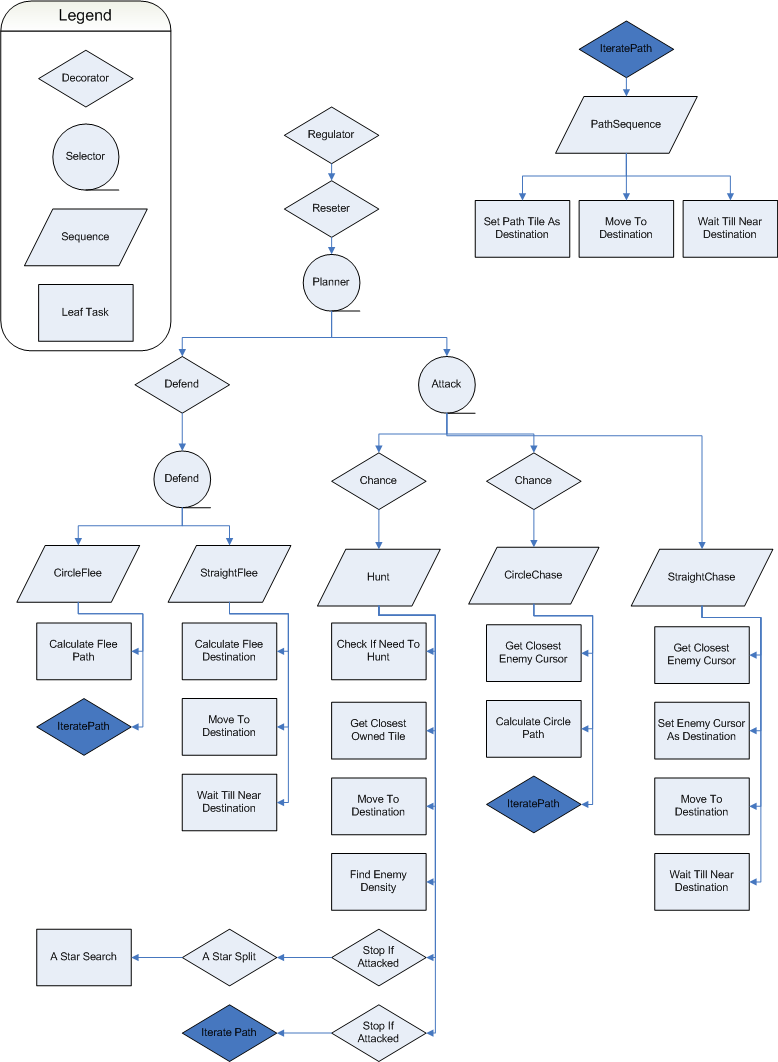
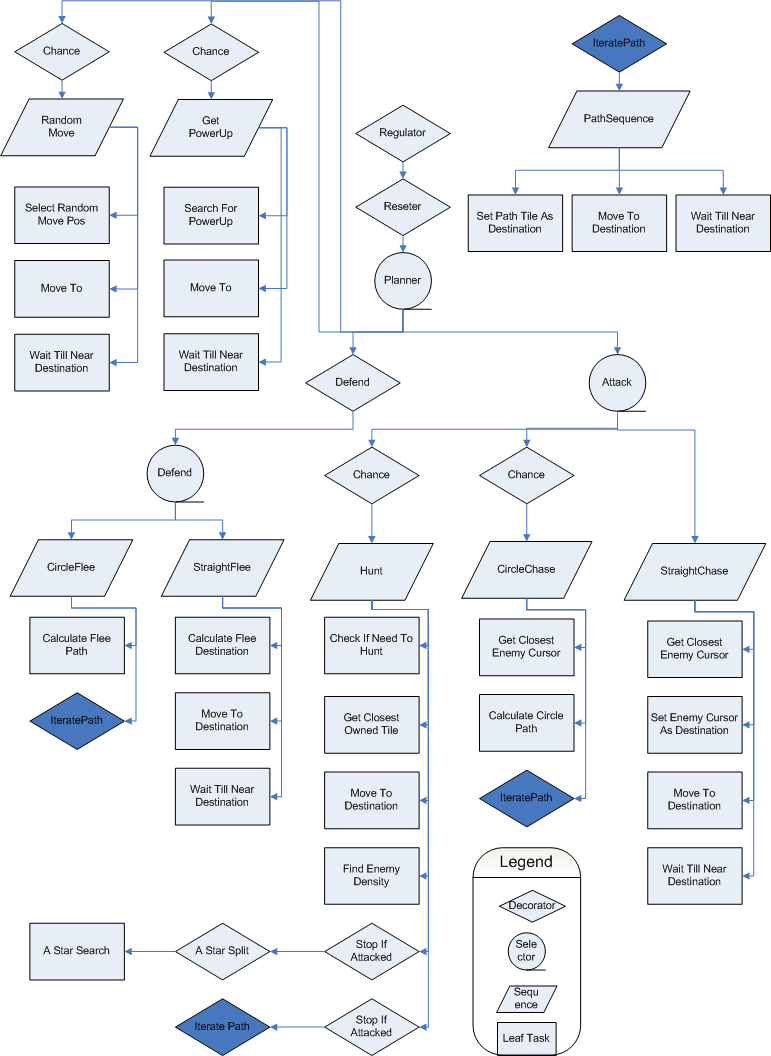
Ying: Added move random behavior

diff --git a/branches/optimal_gfx_rendering/Code/src/com/game/InputDevice/AIInputDevice.java b/branches/optimal_gfx_rendering/Code/src/com/game/InputDevice/AIInputDevice.java
@@ -17,6 +17,7 @@ import com.game.AI.FindEnemyDensityTask;
 import com.game.AI.GetClosestEnemyCursorTask;
 import com.game.AI.GetClosestOwnedTileTask;
 import com.game.AI.IteratePathDecorator;
+import com.game.AI.SelectRandomMovePos;
 import com.game.AI.ParentTaskController;
 import com.game.AI.MoveToDestinationTask;
 import com.game.AI.RegulatorDecorator;
@@ -72,7 +73,7 @@ public class AIInputDevice extends InputDevice
 		// Planner
 		this.planner = new Selector(blackboard, "Planner");
 		this.planner = new ResetDecorator(blackboard, this.planner, "Planner");
-		this.planner = new RegulatorDecorator(blackboard, this.planner, "Planner", 1f);
+		this.planner = new RegulatorDecorator(blackboard, this.planner, "Planner", 0.1f);
 		
 		// PowerUp search
 		Task powerUpSearch = new Sequence(blackboard, "Get PowerUp sequence");
@@ -80,6 +81,13 @@ public class AIInputDevice extends InputDevice
 		((ParentTaskController)powerUpSearch.GetControl()).Add( new SearchForPowerUpTask(blackboard, "SearchForPowerUpTask") );
 		((ParentTaskController)powerUpSearch.GetControl()).Add( new MoveToDestinationTask(blackboard, "MoveToDestinationTask") );
 		((ParentTaskController)powerUpSearch.GetControl()).Add( new WaitTillNearDestinationTask(blackboard, "WaitTillNearDestinationTask"));
+		
+		// Random move
+		Task randomMove = new Sequence(blackboard, "Random move");
+		randomMove = new ChanceDecorator(blackboard, randomMove, "Random move", 30);
+		((ParentTaskController)randomMove.GetControl()).Add( new SelectRandomMovePos(blackboard, "SelectRandomMovePos") );
+		((ParentTaskController)randomMove.GetControl()).Add( new MoveToDestinationTask(blackboard, "MoveToDestinationTask") );
+		((ParentTaskController)randomMove.GetControl()).Add( new WaitTillNearDestinationTask(blackboard, "WaitTillNearDestinationTask"));
 		
 		// Attack
 		Task attack = new Selector(blackboard, "Attack");
@@ -91,7 +99,7 @@ public class AIInputDevice extends InputDevice
 		((ParentTaskController)hunt.GetControl()).Add(new GetClosestOwnedTileTask(blackboard, "GetClosestOwnedTile"));
 		((ParentTaskController)hunt.GetControl()).Add(new MoveToDestinationTask(blackboard, "MoveToDestination"));
 		((ParentTaskController)hunt.GetControl()).Add(new FindEnemyDensityTask(blackboard, "FindEnemyDensity"));
-		Task aStarSearch = new AStarSearchTask(blackboard, "AStarSearch", 100);
+		Task aStarSearch = new AStarSearchTask(blackboard, "AStarSearch", 60);
 		aStarSearch = new AStarSplitDecorator(blackboard, aStarSearch, "AStarSearch {SplitDec}");
 		aStarSearch = new StopIfAttackedDecorator(blackboard, aStarSearch, "AStarSearch {StopIfAttack}");
 		((ParentTaskController)hunt.GetControl()).Add( aStarSearch );
@@ -127,7 +135,7 @@ public class AIInputDevice extends InputDevice
 		
 		// Add to attack
 		((ParentTaskController)attack.GetControl()).Add(hunt);
-		//((ParentTaskController)attack.GetControl()).Add(circleChase);
+		((ParentTaskController)attack.GetControl()).Add(circleChase);
 		((ParentTaskController)attack.GetControl()).Add(straightChase);
 		
 		// Defend
@@ -155,7 +163,8 @@ public class AIInputDevice extends InputDevice
 		((ParentTaskController)defend.GetControl()).Add(straightFlee);
 		
 		// Add to planner
-		//((ParentTaskController)this.planner.GetControl()).Add(powerUpSearch);
+		((ParentTaskController)this.planner.GetControl()).Add(randomMove);
+		((ParentTaskController)this.planner.GetControl()).Add(powerUpSearch);
 		((ParentTaskController)this.planner.GetControl()).Add(defend);
 		((ParentTaskController)this.planner.GetControl()).Add(attack);
 		

diff --git a/branches/optimal_gfx_rendering/Code/src/com/game/AI/SelectRandomMovePos.java b/branches/optimal_gfx_rendering/Code/src/com/game/AI/SelectRandomMovePos.java
@@ -1,0 +1,47 @@
+package com.game.AI;
+
+import java.util.Random;
+
+import com.game.Preferences;
+import com.game.Vec2;
+
+public class SelectRandomMovePos extends LeafTask {
+
+	public SelectRandomMovePos(Blackboard blackboard) {
+		super(blackboard);
+	}
+
+	public SelectRandomMovePos(Blackboard blackboard, String name) {
+		super(blackboard, name);
+	}
+
+	@Override
+	public boolean CheckConditions() {
+		return true;
+	}
+
+	@Override
+	public void DoAction() 
+	{
+		Random rand = new Random();
+		Vec2 dest = new Vec2(rand.nextInt(Preferences.Get().mapWidth), rand.nextInt(Preferences.Get().mapHeight));
+		Vec2 cursorPos = bb.player.GetCursor().GetPosition();
+		
+		bb.moveDirection = new Vec2(dest.X()-cursorPos.X(), dest.Y()-cursorPos.Y());
+		bb.destination.Set(dest.X(), dest.Y());
+		
+		control.FinishWithSuccess();
+	}
+
+	@Override
+	public void End() {
+
+	}
+
+	@Override
+	public void Start() 
+	{
+
+	}
+
+}

diff --git a/branches/optimal_gfx_rendering/Code/src/com/game/AI/RegulatorDecorator.java b/branches/optimal_gfx_rendering/Code/src/com/game/AI/RegulatorDecorator.java
@@ -65,9 +65,9 @@ public class RegulatorDecorator extends TaskDecorator
 	{
 		if(this.regulator.IsReady())
 		{
-			Log.i("____________", "__________________________________________________");
-			Log.i("DDDDDDDDDDDD", "DDDDDDDDDDDDDDDDDDDDDDDDDDDDDDDDDDDDDDDDDDDDDDDDDd");
-			bb.Log();
+			//Log.i("____________", "__________________________________________________");
+			//Log.i("DDDDDDDDDDDD", "DDDDDDDDDDDDDDDDDDDDDDDDDDDDDDDDDDDDDDDDDDDDDDDDDd");
+			//bb.Log();
 			task.DoAction();
 		}
 	}

diff --git a/branches/optimal_gfx_rendering/Code/src/com/game/AI/AStarSearchTask.java b/branches/optimal_gfx_rendering/Code/src/com/game/AI/AStarSearchTask.java
@@ -176,6 +176,7 @@ public class AStarSearchTask extends LeafTask
 		{
 			indexes.add(cur);
 			
+			assert (cur > 0 && cur < bb.aStarData.cameFrom.length) : "Cur == " + cur + " Index out of bounds!"; 
 			cur = bb.aStarData.cameFrom[cur];
 			
 			if(cur == bb.aStarData.initialTile.Index())

diff --git a/branches/optimal_gfx_rendering/Code/src/com/game/AI/Task.java b/branches/optimal_gfx_rendering/Code/src/com/game/AI/Task.java
@@ -51,7 +51,7 @@ public abstract class Task
 	 */
 	public void LogTask(String text)
 	{
-		Log.i("Task", "Player: " + bb.player.GetID() + "; " + name  + ": " + text);
+		//Log.i("Task", "Player: " + bb.player.GetID() + "; " + name  + ": " + text);
 	}
 	
 	/**
